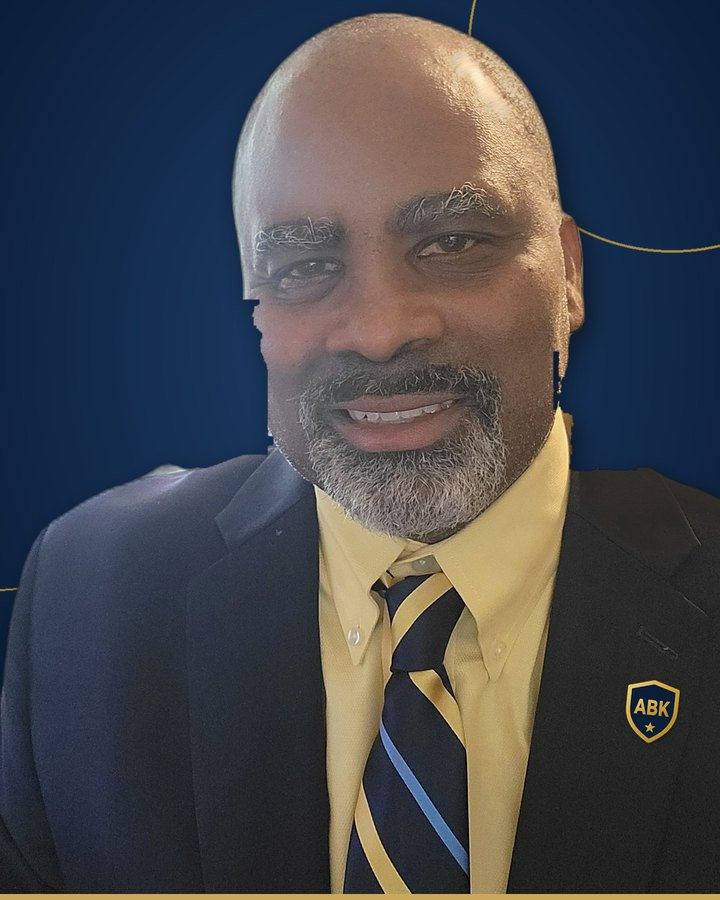
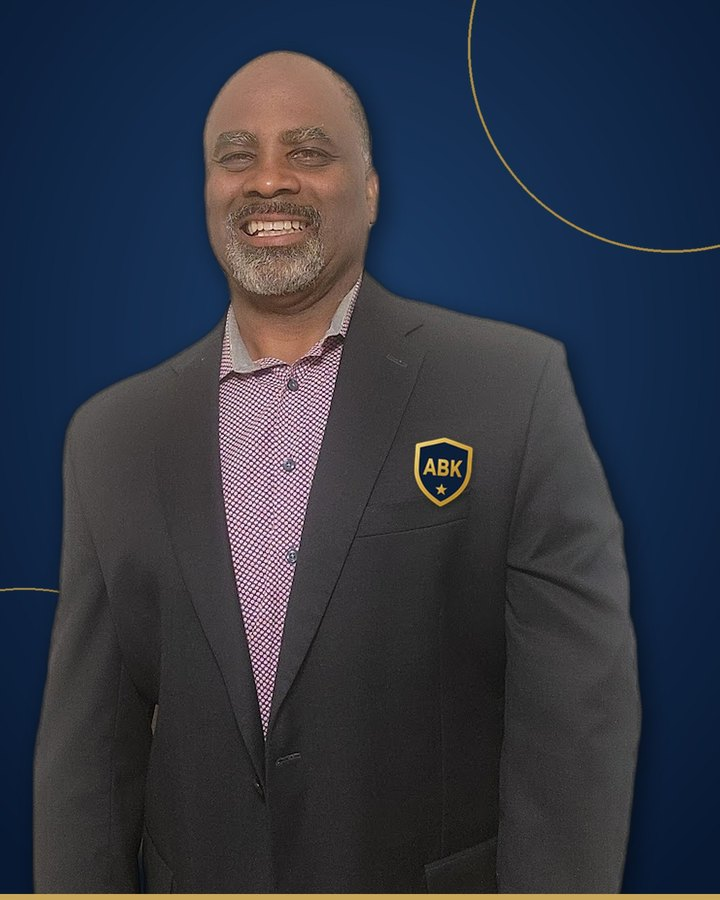
Home: new headshot + Meet the multi-faceted Wendell gallery

diff --git a/index.html b/index.html
@@ -43,6 +43,17 @@
   .wrap{max-width:var(--maxw);margin:0 auto;padding:0 26px}
   .eyebrow{font-size:.8rem;font-weight:700;letter-spacing:.16em;text-transform:uppercase;color:var(--gold)}
   section{padding:74px 0}
+  .facets{background:var(--bg-alt,#F5F8FB)}
+  .facets .section-head{text-align:center;margin:0 auto 34px;max-width:720px}
+  .fgrid{display:grid;grid-template-columns:repeat(3,1fr);gap:18px}
+  .fcard{position:relative;border-radius:16px;overflow:hidden;box-shadow:0 10px 28px rgba(21,42,64,.14);background:#152A40;aspect-ratio:4/5}
+  .fcard img{width:100%;height:100%;object-fit:cover;display:block;transition:transform .4s}
+  .fcard:hover img{transform:scale(1.04)}
+  .fcard figcaption{position:absolute;left:0;right:0;bottom:0;padding:44px 16px 14px;background:linear-gradient(transparent,rgba(11,31,58,.92));color:#fff}
+  .fcard b{display:block;font-size:1.05rem;color:#E9C46A;letter-spacing:.02em}
+  .fcard span{font-size:.9rem;color:#E6ECF3}
+  .fcard a{color:#E9C46A}
+  @media(max-width:820px){.fgrid{grid-template-columns:repeat(2,1fr);gap:12px}.fcard figcaption{padding:34px 10px 10px}.fcard span{font-size:.8rem}}
   .hello{background:#fff}
   .hello .wrap{display:grid;grid-template-columns:300px 1fr;gap:52px;align-items:center}
   .hello figure{margin:0;border-radius:18px;overflow:hidden;box-shadow:0 18px 44px rgba(21,42,64,.18);border:3px solid var(--gold)}
@@ -401,6 +412,28 @@
         <a href="resources.html" class="btn dark">Explore my work</a>
         <a href="wendell-killette-resume.pdf" target="_blank" rel="noopener" class="btn" style="background:transparent;color:var(--navy);border-color:var(--navy)">Download my r&eacute;sum&eacute; (PDF)</a>
       </div>
+    </div>
+  </div>
+</section>
+
+<!-- FACETS -->
+<section id="facets" class="facets">
+  <div class="wrap">
+    <div class="section-head">
+      <div class="eyebrow">Off the clock</div>
+      <h2>Meet the multi-faceted Wendell</h2>
+      <p>Agile coach by profession, servant leader by nature &mdash; and a lot more besides. The patience, curiosity and care I bring to teams come from everything else I love to do.</p>
+    </div>
+    <div class="fgrid">
+      <figure class="fcard"><img src="facet-coach.jpg" width="480" height="600" alt="Wendell Killette: The Coach" loading="lazy"><figcaption><b>The Coach</b><span>Building Dev Families, one team at a time.</span></figcaption></figure>
+      <figure class="fcard"><img src="facet-bowling-coach.jpg" width="480" height="600" alt="Wendell Killette: Bowling with Mr. Wendell" loading="lazy"><figcaption><b>Bowling with Mr. Wendell</b><span>Coaching on the lanes, too. <a href="https://bowlingwithmrwendell.com" target="_blank" rel="noopener">Visit &rarr;</a></span></figcaption></figure>
+      <figure class="fcard"><img src="facet-networking.jpg" width="480" height="600" alt="Wendell Killette: The Lifelong Learner" loading="lazy"><figcaption><b>The Lifelong Learner</b><span>Always in the room to learn something new.</span></figcaption></figure>
+      <figure class="fcard"><img src="facet-bowling.jpg" width="480" height="600" alt="Wendell Killette: On the Lanes" loading="lazy"><figcaption><b>On the Lanes</b><span>Practice what you preach &mdash; consistency wins.</span></figcaption></figure>
+      <figure class="fcard"><img src="facet-builder.jpg" width="480" height="600" alt="Wendell Killette: The Builder" loading="lazy"><figcaption><b>The Builder</b><span>Engineer by training. Still building with my hands.</span></figcaption></figure>
+      <figure class="fcard"><img src="facet-traveler.jpg" width="480" height="600" alt="Wendell Killette: The Traveler" loading="lazy"><figcaption><b>The Traveler</b><span>New places, new perspectives.</span></figcaption></figure>
+      <figure class="fcard"><img src="facet-dinner.jpg" width="480" height="600" alt="Wendell Killette: Enjoying Life" loading="lazy"><figcaption><b>Enjoying Life</b><span>Time with people is the point.</span></figcaption></figure>
+      <figure class="fcard"><img src="facet-horseman.jpg" width="480" height="600" alt="Wendell Killette: The Horseman" loading="lazy"><figcaption><b>The Horseman</b><span>Patience and trust &mdash; lessons a horse teaches fast.</span></figcaption></figure>
+      <figure class="fcard"><img src="facet-beekeeper.jpg" width="480" height="600" alt="Wendell Killette: The Beekeeper" loading="lazy"><figcaption><b>The Beekeeper</b><span>A hive is the ultimate self-organizing team.</span></figcaption></figure>
     </div>
   </div>
 </section>
